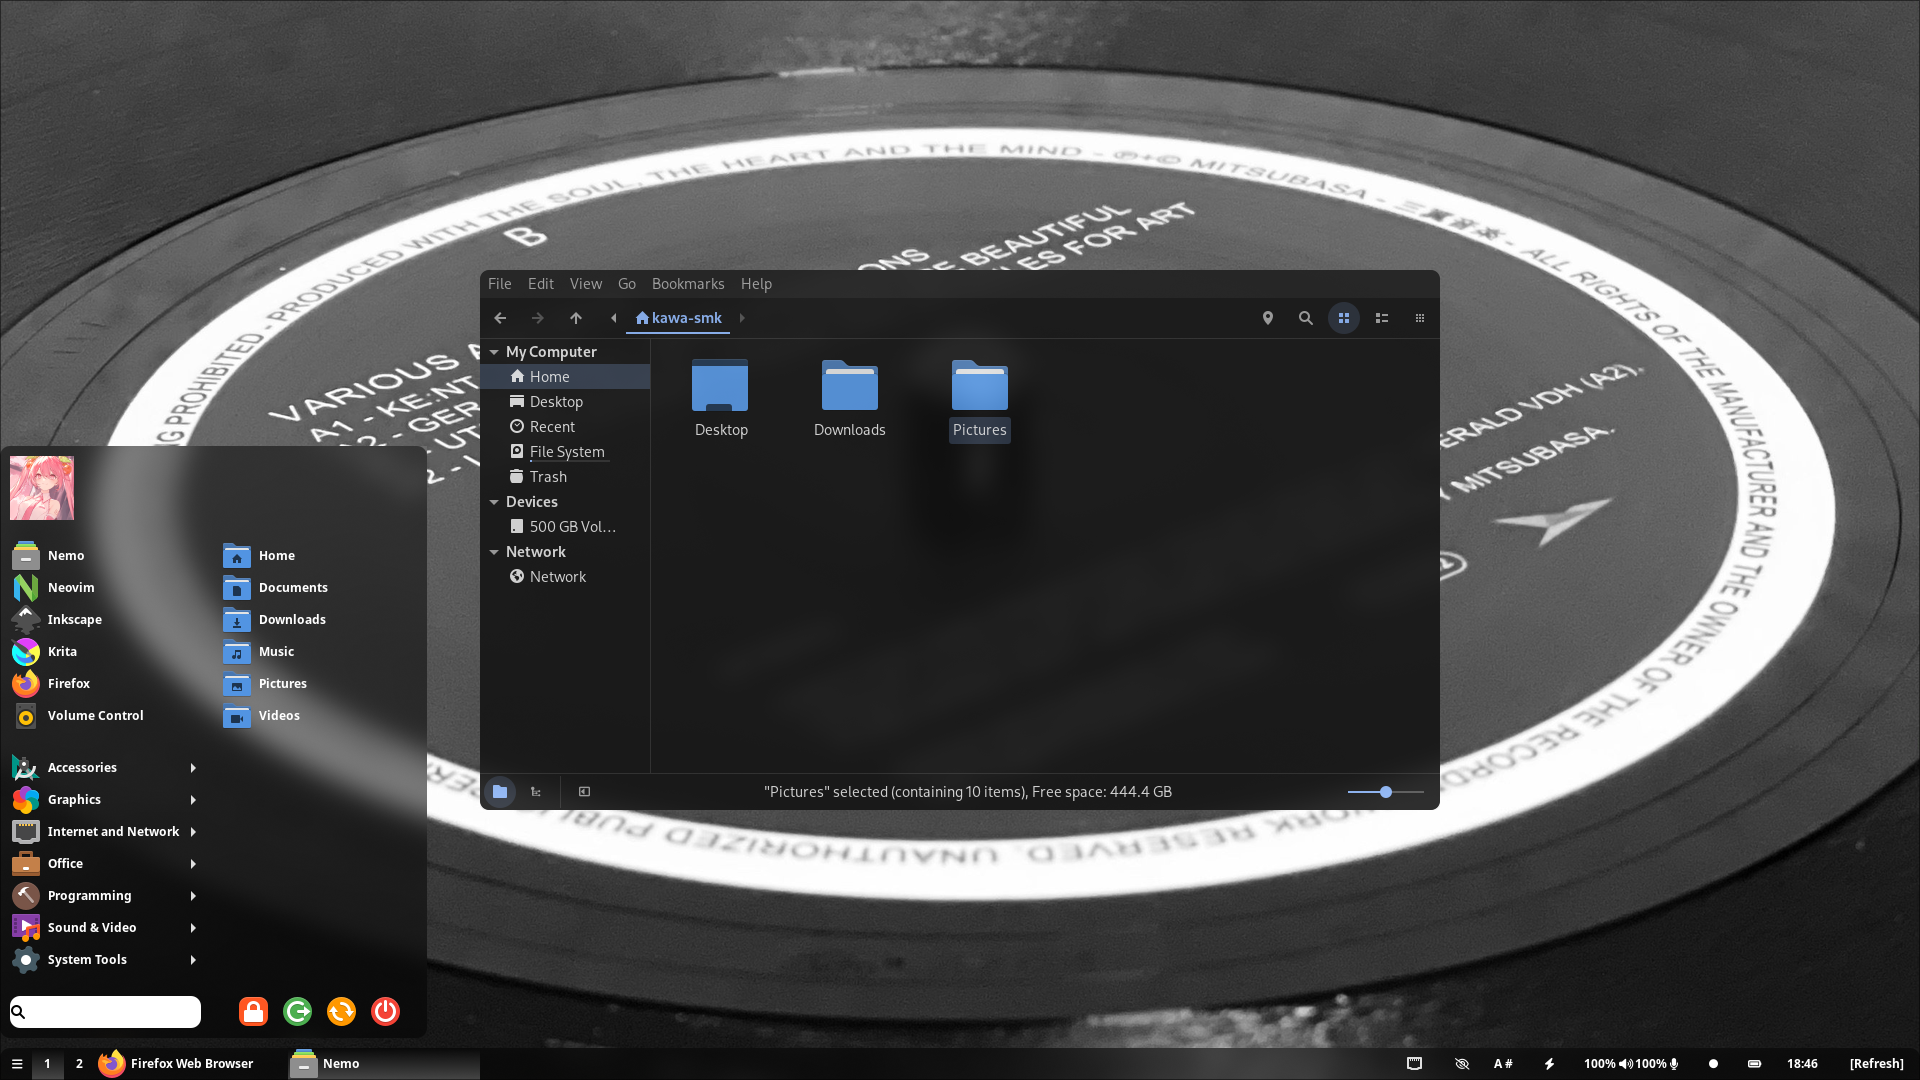
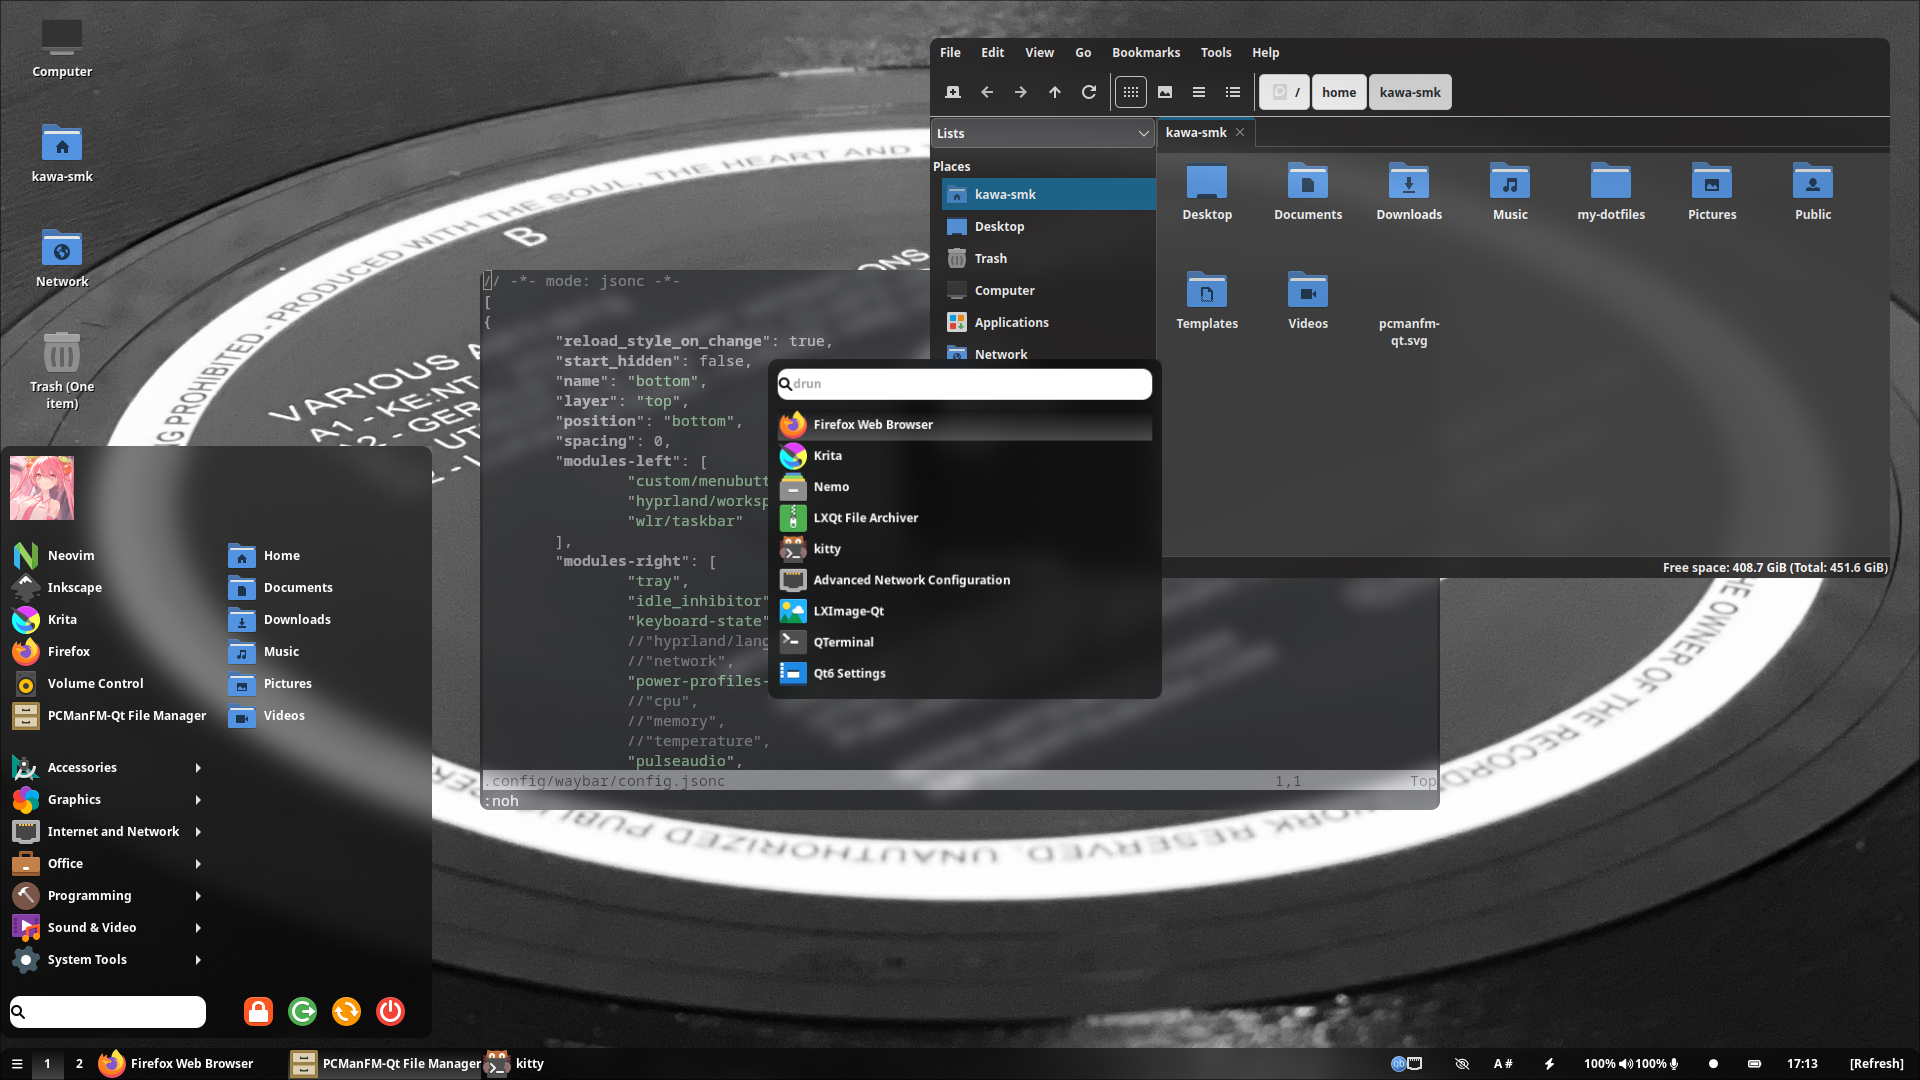
Upd. docs and README.md

diff --git a/README.md b/README.md
@@ -3,11 +3,13 @@
 
 Bar: [waybar](https://github.com/Alexays/Waybar)
 
-GTK theme: [materia](https://github.com/nana-4/materia-theme)
+Explorer: [pcmanfm-qt](https://github.com/lxqt/pcmanfm-qt)
+
+GTK theme: [materia](https://github.com/nana-4/materia-theme) (not pictured)
 
 Icons: [papirus-icon-theme](https://github.com/PapirusDevelopmentTeam/papirus-icon-theme)
 
-Launcher: [wofi](https://sr.ht/~scoopta/wofi/) (not pictured)
+Launcher: [wofi](https://sr.ht/~scoopta/wofi/)
 
 Start menu: [nwg-menu](https://github.com/nwg-piotr/nwg-menu)
 
@@ -16,9 +18,9 @@ Wallpaper: [mitsubasa](https://f4.bcbits.com/img/0030581061_130.jpg)
 # notes
 * *The hyprland.conf includes some window rules for programs like REAPER and MuLab, you can delete those if you want*
 
-* *There is no installation script for the dotfiles themselves since it's just two directories with 4 files total (for now), so just clone and copy / paste if you wish to use them*
+* *There is no installation script for the dotfiles themselves since it's just two directories with a small number of files (for now), so just clone and copy / paste if you wish to use them*
 
-* *nwg-menu, waybar, and wofi use the same .css file*
+* *waybar and wofi use style.css, while nwg-menu imports from it into its own css file*
 
 # chroot.sh
 I made because I'm lazy >.&lt; if my system ever breaks, I don't want to have to set everything up again
